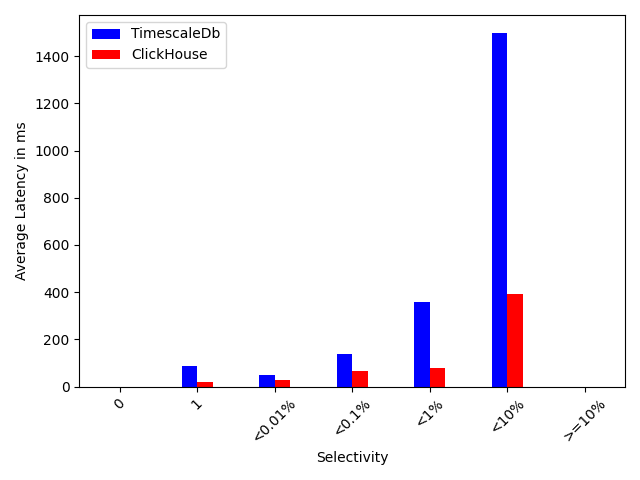
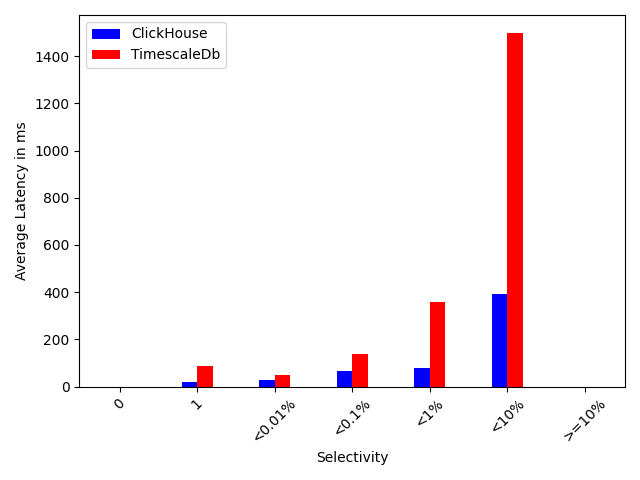
again: keep red for TSDB and blue for Clickhouse in the plots

diff --git a/visualizer.py b/visualizer.py
@@ -6,7 +6,7 @@ import os
 import numpy as np
 
 RESULTS_DIR = "results"
-RUN_DIR = "run2-big-taxi"  # !change there only if you want to plot results of other run
+RUN_DIR = "run1"
 RESULTS_FILE = "benchmark_result"
 PLOTS_DIR_NAME = "plots"
 
@@ -41,7 +41,7 @@ def getAllValues(json, value_name):
 
 ## returns list of all Databases used in the benchmark
 def getAllDBs(json):
-    return list(json[0]['readResults'].keys())
+    return sorted(list(json[0]['readResults'].keys()))
 
 
 def filter_json(json, value_name, value):

diff --git a/merge_results.py b/merge_results.py
@@ -85,7 +85,7 @@ def merge_json_files(jsons_dir):
 
 def main():
     experiments_dir = "results"
-    run_dir = "run4-compression-rate"
+    run_dir = "run2-big-taxi"
     # run_dir = "run1"
     sub_experiments_dir = "results"
     results_path = os.path.join(experiments_dir, run_dir, sub_experiments_dir)
